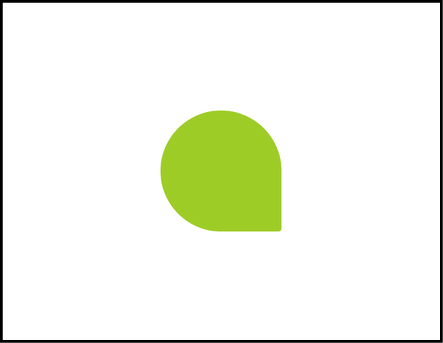
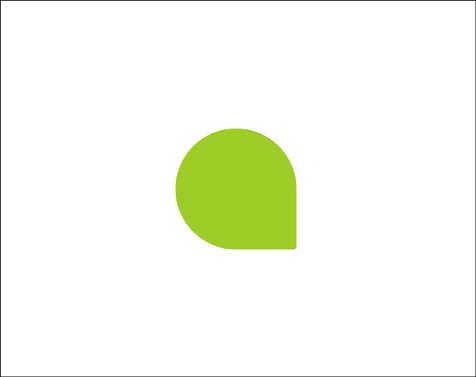
Projects

Changed region(s): [[0.0, 0.0, 1.0, 1.0], [0.3521, 0.3207, 0.6456, 0.6997]]

diff --git a/index.html b/index.html
@@ -15,7 +15,7 @@
     <link href="font-awesome/css/font-awesome.min.css" rel="stylesheet" type="text/css">
     <script src="https://oss.maxcdn.com/libs/html5shiv/3.7.0/html5shiv.js"></script>
     <script src="https://oss.maxcdn.com/libs/respond.js/1.4.2/respond.min.js"></script>
-    <link rel="icon" type="image/png" href="img/logo.png"/>
+    <link rel="icon" type="image/png" href="img/logo2.png"/>
 
 
 </head>
@@ -274,54 +274,55 @@
 
     <section id="projects" class="portfolio" style="margin-top:65px">
 
-
-  <div class="col-lg-12 text-center" style="margin-bottom:66px">
+        <div class="col-lg-12 text-center" style="margin-bottom:66px">
       <h2 class="section-heading">Projects</h2>
         <ul class="grid cs-style-3" style="margin-top:30px">
+
+
+
+            <li>
+          <figure>
+            <img src="img/projects/weatherForMe.png" class="proj" alt="img03">
+            <figcaption>
+              <h3>WeatherForMe</h3>
+              <h5>Android Weather App</h5>
+                <a href="#weatherModal" class="portfolio-link" data-toggle="modal">Take a look</a>
+            </figcaption>
+          </figure>
+        </li>
+
+
+                  <li>
+          <figure>
+            <img src="img/projects/gradAnalyser.png" class="proj">
+            <figcaption>
+              <h3>Gradschool Analyser</h3>
+              <h5>Data analyser for my<br> grad school</h5>
+                <a href="#gradModal" class="portfolio-link" data-toggle="modal">Take a look</a>
+            </figcaption>
+          </figure>
+        </li>
+
+
+
        <li>
           <figure>
             <img src="img/projects/bouncy.png" class="proj" alt="img01">
             <figcaption>
               <h3>Bouncy</h3>
               <h5>Arcade Java Game</h5>
-                <a href="#portfolioModal1" class="portfolio-link" data-toggle="modal">Take a look</a>
+                <a href="#bouncyModal" class="portfolio-link" data-toggle="modal">Take a look</a>
             </figcaption>
           </figure>
-        </li>
+        </li>  <br>
 
                 <li>
           <figure>
             <img src="img/projects/messaging.png" class="proj" alt="img02">
             <figcaption>
               <h3>Messenger Pro</h3>
-              <h5>A simple Messaging app</h5>
-               <a href="#portfolioModal3" class="portfolio-link" data-toggle="modal">Take a look</a>
-            </figcaption>
-          </figure>
-        </li>
-
-          <li>
-          <figure>
-            <img src="img/projects/music.png" class="proj">
-            <figcaption>
-              <h3>Sync Up</h3>
-              <h5>Social Network for <br>Musicians</h5>
-                <a href="#portfolioModal2" class="portfolio-link" data-toggle="modal">Take a look</a>
-            </figcaption>
-          </figure>
-        </li>
-
-
-
-            <br>
-
-            <li>
-          <figure>
-            <img src="img/projects/scoreBored.png" class="proj" alt="img03">
-            <figcaption>
-              <h3>ScoreBored</h3>
-              <h5>Silent judger- Android App</h5>
-                <a href="#portfolioModal4" class="portfolio-link" data-toggle="modal">Take a look</a>
+              <h5>A simple Messaging <br>app</h5>
+               <a href="#messagingModal" class="portfolio-link" data-toggle="modal">Take a look</a>
             </figcaption>
           </figure>
         </li>
@@ -331,8 +332,8 @@
             <img src="img/projects/billingSystem.png" class="proj" alt="img03">
             <figcaption>
               <h3>Billing System</h3>
-              <h5>A multiplatform Cashier</h5>
-               <a href="#portfolioModalBilling" class="portfolio-link" data-toggle="modal">Take a look</a>
+              <h5>Multiplatform Cashier</h5>
+               <a href="#billingModal" class="portfolio-link" data-toggle="modal">Take a look</a>
             </figcaption>
           </figure>
         </li>
@@ -343,7 +344,7 @@
             <figcaption>
               <h3>Personl Website</h3>
               <h5>My portfolio</h5>
-               <a href="#portfolioModal6" class="portfolio-link" data-toggle="modal">Take a look</a>
+               <a href="#websiteModal" class="portfolio-link" data-toggle="modal">Take a look</a>
             </figcaption>
           </figure>
         </li>
@@ -385,7 +386,83 @@
 
  <!------------------------------------------------------------ Project Modals ---------------------------------------------------------------->
 
- <div class="portfolio-modal modal fade" id="portfolioModal1" tabindex="-1" role="dialog" aria-hidden="true">
+ <div class="portfolio-modal modal fade" id="weatherModal" tabindex="-1" role="dialog" aria-hidden="true">
+        <div class="modal-content">
+            <div class="close-modal" data-dismiss="modal">
+                <div class="lr">
+                    <div class="rl">
+                    </div>
+                </div>
+            </div>
+            <div class="container">
+                <div class="row">
+                    <div class="col-lg-8 col-lg-offset-2">
+                        <div class="modal-body">
+                            <h2>WeatherForMe</h2>
+                            <hr class="star-primary">
+                            <img src="img/portfolio/cabin.png" class="img-responsive img-centered" alt="">
+                            <p>Use this area of the page to describe your project. The icon above is part of a free icon set by <a href="https://sellfy.com/p/8Q9P/jV3VZ/">Flat Icons</a>. On their website, you can download their free set with 16 icons, or you can purchase the entire set with 146 icons for only $12!</p>
+                            <ul class="list-inline item-details">
+                                <li>Client:
+                                    <strong><a href="http://startbootstrap.com">Start Bootstrap</a>
+                                    </strong>
+                                </li>
+                                <li>Date:
+                                    <strong><a href="http://startbootstrap.com">April 2014</a>
+                                    </strong>
+                                </li>
+                                <li>Service:
+                                    <strong><a href="http://startbootstrap.com">Web Development</a>
+                                    </strong>
+                                </li>
+                            </ul>
+                            <button type="button" class="btn btn-default" data-dismiss="modal"><i class="fa fa-times"></i> Close</button>
+                        </div>
+                    </div>
+                </div>
+            </div>
+        </div>
+    </div>
+
+ <div class="portfolio-modal modal fade" id="gradModal" tabindex="-1" role="dialog" aria-hidden="true">
+        <div class="modal-content">
+            <div class="close-modal" data-dismiss="modal">
+                <div class="lr">
+                    <div class="rl">
+                    </div>
+                </div>
+            </div>
+            <div class="container">
+                <div class="row">
+                    <div class="col-lg-8 col-lg-offset-2">
+                        <div class="modal-body">
+                            <h2>Gradschool Analyser</h2>
+                            <hr class="star-primary">
+                            <img src="img/portfolio/cabin.png" class="img-responsive img-centered" alt="">
+                            <p>Use this area of the page to describe your project. The icon above is part of a free icon set by <a href="https://sellfy.com/p/8Q9P/jV3VZ/">Flat Icons</a>. On their website, you can download their free set with 16 icons, or you can purchase the entire set with 146 icons for only $12!</p>
+                            <ul class="list-inline item-details">
+                                <li>Client:
+                                    <strong><a href="http://startbootstrap.com">Start Bootstrap</a>
+                                    </strong>
+                                </li>
+                                <li>Date:
+                                    <strong><a href="http://startbootstrap.com">April 2014</a>
+                                    </strong>
+                                </li>
+                                <li>Service:
+                                    <strong><a href="http://startbootstrap.com">Web Development</a>
+                                    </strong>
+                                </li>
+                            </ul>
+                            <button type="button" class="btn btn-default" data-dismiss="modal"><i class="fa fa-times"></i> Close</button>
+                        </div>
+                    </div>
+                </div>
+            </div>
+        </div>
+    </div>
+
+ <div class="portfolio-modal modal fade" id="bouncyModal" tabindex="-1" role="dialog" aria-hidden="true">
         <div class="modal-content">
             <div class="close-modal" data-dismiss="modal">
                 <div class="lr">
@@ -423,7 +500,7 @@
         </div>
     </div>
 
- <div class="portfolio-modal modal fade" id="portfolioModal2" tabindex="-1" role="dialog" aria-hidden="true">
+ <div class="portfolio-modal modal fade" id="messagingModal" tabindex="-1" role="dialog" aria-hidden="true">
         <div class="modal-content">
             <div class="close-modal" data-dismiss="modal">
                 <div class="lr">
@@ -435,10 +512,15 @@
                 <div class="row">
                     <div class="col-lg-8 col-lg-offset-2">
                         <div class="modal-body">
-                            <h2>Messenger-Pro</h2>
+                            <h2>Messenger Pro</h2>
                             <hr class="star-primary">
                             <img src="img/portfolio/cabin.png" class="img-responsive img-centered" alt="">
-                            <p>Use this area of the page to describe your project. The icon above is part of a free icon set by <a href="https://sellfy.com/p/8Q9P/jV3VZ/">Flat Icons</a>. On their website, you can download their free set with 16 icons, or you can purchase the entire set with 146 icons for only $12!</p>
+                            <p style="text-align: left"> This app exchanges messages on the same computer between the Client and Server. It is a very basic 1-one-1 messaging app which allows user to enter and exit a chat room.<br><br>
+
+I created this project during the holidays that I got between my High School and University. It was the time when 'Java' was just a famous language to me that everyone talked about which I was very eager to learn. I started with online tutorials and by the end of a month I had this app along with a simple Web Browser which I created in the learning process. I got a good knowledge of networking by
+implementing server sockets , streams, inheritance, arrays.<br><br>
+
+Fun fact: This was the first time I realised that- all languages are pretty much the same</p>
                             <ul class="list-inline item-details">
                                 <li>Client:
                                     <strong><a href="http://startbootstrap.com">Start Bootstrap</a>
@@ -461,83 +543,7 @@
         </div>
     </div>
 
- <div class="portfolio-modal modal fade" id="portfolioModal3" tabindex="-1" role="dialog" aria-hidden="true">
-        <div class="modal-content">
-            <div class="close-modal" data-dismiss="modal">
-                <div class="lr">
-                    <div class="rl">
-                    </div>
-                </div>
-            </div>
-            <div class="container">
-                <div class="row">
-                    <div class="col-lg-8 col-lg-offset-2">
-                        <div class="modal-body">
-                            <h2>Muser</h2>
-                            <hr class="star-primary">
-                            <img src="img/portfolio/cabin.png" class="img-responsive img-centered" alt="">
-                            <p>Use this area of the page to describe your project. The icon above is part of a free icon set by <a href="https://sellfy.com/p/8Q9P/jV3VZ/">Flat Icons</a>. On their website, you can download their free set with 16 icons, or you can purchase the entire set with 146 icons for only $12!</p>
-                            <ul class="list-inline item-details">
-                                <li>Client:
-                                    <strong><a href="http://startbootstrap.com">Start Bootstrap</a>
-                                    </strong>
-                                </li>
-                                <li>Date:
-                                    <strong><a href="http://startbootstrap.com">April 2014</a>
-                                    </strong>
-                                </li>
-                                <li>Service:
-                                    <strong><a href="http://startbootstrap.com">Web Development</a>
-                                    </strong>
-                                </li>
-                            </ul>
-                            <button type="button" class="btn btn-default" data-dismiss="modal"><i class="fa fa-times"></i> Close</button>
-                        </div>
-                    </div>
-                </div>
-            </div>
-        </div>
-    </div>
-
- <div class="portfolio-modal modal fade" id="portfolioModal4" tabindex="-1" role="dialog" aria-hidden="true">
-        <div class="modal-content">
-            <div class="close-modal" data-dismiss="modal">
-                <div class="lr">
-                    <div class="rl">
-                    </div>
-                </div>
-            </div>
-            <div class="container">
-                <div class="row">
-                    <div class="col-lg-8 col-lg-offset-2">
-                        <div class="modal-body">
-                            <h2>Scorebored</h2>
-                            <hr class="star-primary">
-                            <img src="img/portfolio/cabin.png" class="img-responsive img-centered" alt="">
-                            <p>Use this area of the page to describe your project. The icon above is part of a free icon set by <a href="https://sellfy.com/p/8Q9P/jV3VZ/">Flat Icons</a>. On their website, you can download their free set with 16 icons, or you can purchase the entire set with 146 icons for only $12!</p>
-                            <ul class="list-inline item-details">
-                                <li>Client:
-                                    <strong><a href="http://startbootstrap.com">Start Bootstrap</a>
-                                    </strong>
-                                </li>
-                                <li>Date:
-                                    <strong><a href="http://startbootstrap.com">April 2014</a>
-                                    </strong>
-                                </li>
-                                <li>Service:
-                                    <strong><a href="http://startbootstrap.com">Web Development</a>
-                                    </strong>
-                                </li>
-                            </ul>
-                            <button type="button" class="btn btn-default" data-dismiss="modal"><i class="fa fa-times"></i> Close</button>
-                        </div>
-                    </div>
-                </div>
-            </div>
-        </div>
-    </div>
-
- <div class="portfolio-modal modal fade" id="portfolioModalBilling" tabindex="-1" role="dialog" aria-hidden="true">
+ <div class="portfolio-modal modal fade" id="billingModal" tabindex="-1" role="dialog" aria-hidden="true">
         <div class="modal-content">
             <div class="close-modal" data-dismiss="modal">
                 <div class="lr">
@@ -552,9 +558,9 @@
                             <h2>Billing System</h2>
                             <hr class="star-primary">
                             <img src="img/portfolio/cabin.png" class="img-responsive img-centered" alt="">
-                            <p>A desktop application which allows admins and customers to Search, Modify, Copy, Add and Delete records separately. It is flexible to be used by Hotels/Supermarkets and similar fields and easy to personalise for your own field.
-
-I created this application as my high school project to apply the concepts of file handling and everything we had been taught in C++ till that point. I was tired of studying the theory behind different searching and sorting algorithms and wanted to create a real world project using my knowledge. This was the first ever project I created which sparked my interest in this field. The icon above is part of a free icon set by <a href="https://sellfy.com/p/8Q9P/jV3VZ/">Flat Icons</a>. On their website, you can download their free set with 16 icons, or you can purchase the entire set with 146 icons for only $12!</p>
+                            <p style="text-align: left">A desktop application which allows admins and customers to Search, Modify, Copy, Add and Delete records separately. It is flexible to be used by Hotels/Supermarkets and similar fields and easy to personalise for your own field.<br><br>
+                                I created this application as my high school project to apply the concepts of file handling and everything we had been taught in C++ till that point. I was tired of studying the theory behind different searching and sorting algorithms and wanted to create a real world project using my knowledge.
+                                This was the first ever project I created which sparked my interest in this field.</p>
                             <ul class="list-inline item-details">
                                 <li>Client:
                                     <strong><a href="http://startbootstrap.com">Start Bootstrap</a>
@@ -577,7 +583,7 @@ I created this application as my high school project to apply the concepts of fi
         </div>
     </div>
 
- <div class="portfolio-modal modal fade" id="portfolioModal6" tabindex="-1" role="dialog" aria-hidden="true">
+ <div class="portfolio-modal modal fade" id="websiteModal" tabindex="-1" role="dialog" aria-hidden="true">
         <div class="modal-content">
             <div class="close-modal" data-dismiss="modal">
                 <div class="lr">

diff --git a/css/mySheet.css b/css/mySheet.css
@@ -279,7 +279,7 @@ hr.small {
 
 .proj{
         width:380px;
-        height:300px;
+        height:280px;
 
     }
 /*
@@ -611,8 +611,8 @@ span {
 }
 
 .modal-body {
-    text-align: center;
-    left:-20%;
+    position:absolute;
+    left:-1em;
 }
 
 .star-primary{
